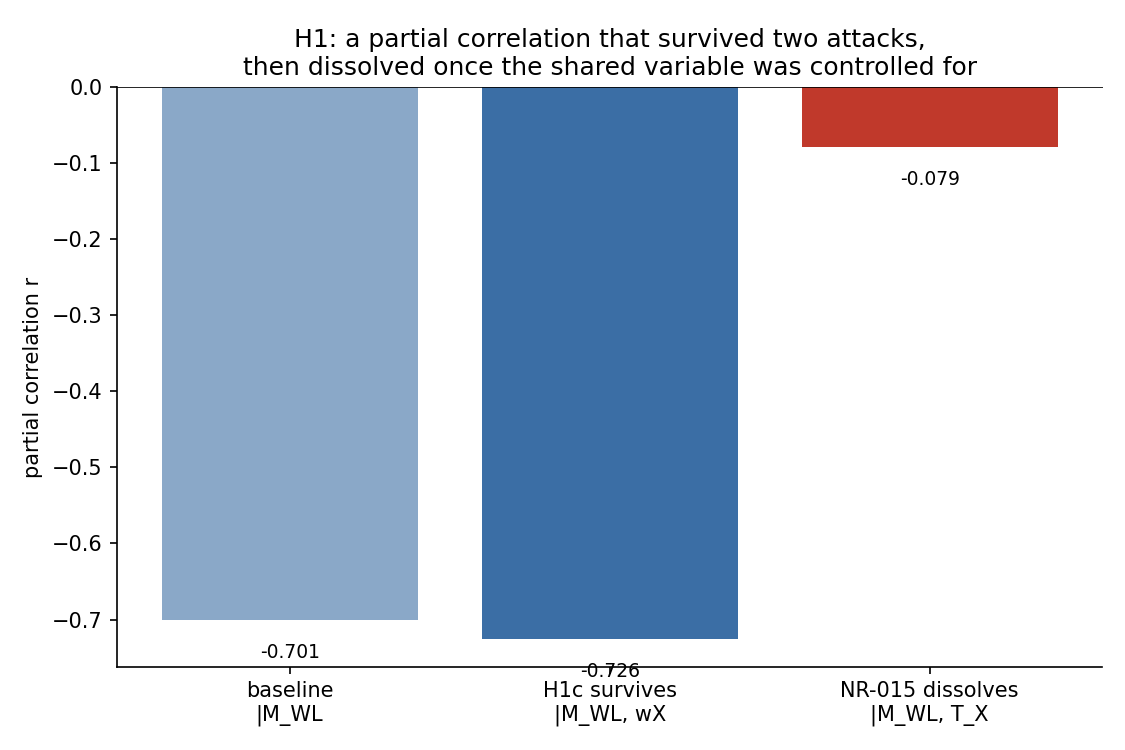
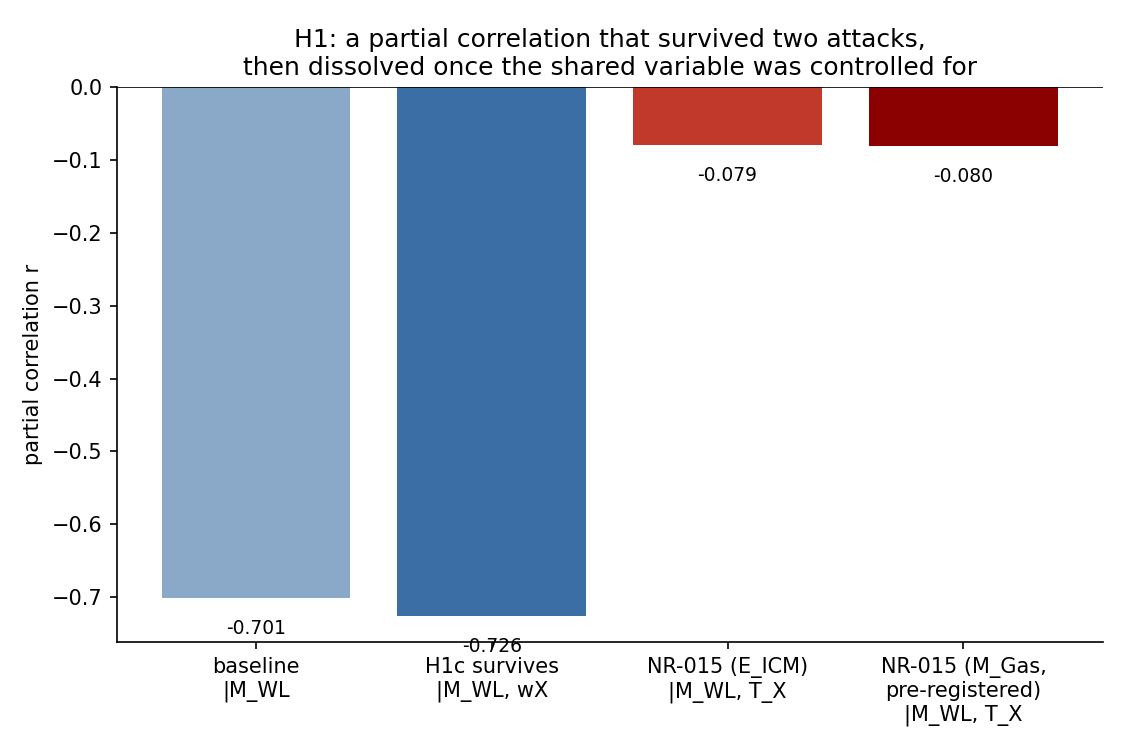
docs(book): phase D -- context-blind skeptic pass, 8 confirmed fixes applied
Agent(skeptic), context-blind (no session history, repo + tool access,
explicitly told not to trust the book's own self-corrections without
re-verifying them too), read all 22 chapters + figures/README.md and
returned 8 CONFIRMED findings, 2 DISPUTED (valid but overstated framing),
several UNABLE-TO-VERIFY without bash. All addressed:

1. NR-013 miscategorized as "H1 cluster cycle" (chapter 5.3, figures/
   f9_null_results_timeline.py) -- its own Branch field and the pearl
   registry both place it in the bridge/parametrization thread instead.
   Moved in the script's GROUPS dict, PNG regenerated, chapter text fixed
   (H1 cycle: 5 entries not 6).

2. Chapter 4.3 cited "Фигура 3 препринта" for the multipole-ablation
   comparison -- this is the SAME artifact rules/artifact-provenance-
   gates.md documents as an unpublished email attachment (not a preprint
   figure; the preprint has zero figures, grep-verified). The chapter
   about Gate 1 (4.2) uses this exact incident as its own example; 4.3
   repeated the error it warns about. Corrected with the real identity.

3. Chapter 3.2 cited the E_ICM version of NR-015's dissolution result as
   if it were the pre-registration; the actual pre-registered test used
   M_Gas (-0.0801, not -0.079). figures/f5_h1_correlation_dissolves.py
   now computes and plots both, distinctly labelled, pre-registered one
   first.

4. Attack-count wobble between chapters 3.1 and 3.2: H1a (direct,
[…]

diff --git a/docs/BOOK/figures/f5_h1_correlation_dissolves.py b/docs/BOOK/figures/f5_h1_correlation_dissolves.py
@@ -75,23 +75,45 @@ dM_w, eICM_w, mWL_w, wX = (
 )
 r_h1c, p_h1c = partial_corr(dM_w, eICM_w, np.column_stack([mWL_w, wX]))
 
-# NR-015: control for T_X too -- the dissolution.
+# NR-015: control for T_X too -- the dissolution. TWO versions, distinctly
+# labelled: the EXACT pre-registration (M_Gas, per null_results/20260718-
+# nr015-...md "KEY TEST (exact pre-registration, pearl row 34)") and the
+# closely-related E_ICM version this file originally plotted alone. Phase D
+# (Agent(skeptic), context-blind, 2026-08-11) found the chapter text had
+# cited the E_ICM number as if it were the pre-registered result. Both shown
+# now rather than silently picking one.
 rows_tx = [r for r in rows_base if r["T_X_keV"]]
-dM_t, eICM_t, mWL_t, tx = (
+dM_t, eICM_t, mgas_t, mWL_t, tx = (
     col(rows_tx, "delta_M_1e14Msun"),
     col(rows_tx, "E_ICM_proxy_MgasTx"),
+    col(rows_tx, "M_Gas_1e14Msun"),
     col(rows_tx, "M_WL_1e14Msun"),
     col(rows_tx, "T_X_keV"),
 )
-r_tx, p_tx = partial_corr(dM_t, eICM_t, np.column_stack([mWL_t, tx]))
+r_tx_eicm, p_tx_eicm = partial_corr(dM_t, eICM_t, np.column_stack([mWL_t, tx]))
+r_tx_mgas, p_tx_mgas = partial_corr(dM_t, mgas_t, np.column_stack([mWL_t, tx]))
 
-print(f"baseline  r(dM,E_ICM|M_WL)        = {r_base:+.3f}  p={p_base:.2e}  n={len(rows_base)}")
-print(f"H1c       r(dM,E_ICM|M_WL,wX)     = {r_h1c:+.3f}  p={p_h1c:.2e}  n={len(rows_wx)}")
-print(f"NR-015    r(dM,E_ICM|M_WL,T_X)    = {r_tx:+.3f}  p={p_tx:.2e}  n={len(rows_tx)}")
+print(
+    f"baseline               r(dM,E_ICM|M_WL)     = {r_base:+.4f}  p={p_base:.2e}  n={len(rows_base)}"
+)
+print(
+    f"H1c                    r(dM,E_ICM|M_WL,wX)  = {r_h1c:+.4f}  p={p_h1c:.2e}  n={len(rows_wx)}"
+)
+print(
+    f"NR-015 (E_ICM)         r(dM,E_ICM|M_WL,T_X) = {r_tx_eicm:+.4f}  p={p_tx_eicm:.2e}  n={len(rows_tx)}"
+)
+print(
+    f"NR-015 (M_Gas, EXACT pre-registration) r(dM,M_Gas|M_WL,T_X) = {r_tx_mgas:+.4f}  p={p_tx_mgas:.2e}  n={len(rows_tx)}"
+)
 
-labels = ["baseline\n|M_WL", "H1c survives\n|M_WL, wX", "NR-015 dissolves\n|M_WL, T_X"]
-vals = [r_base, r_h1c, r_tx]
-colors = ["#8aa8c8", "#3b6ea5", "#c0392b"]
+labels = [
+    "baseline\n|M_WL",
+    "H1c survives\n|M_WL, wX",
+    "NR-015 (E_ICM)\n|M_WL, T_X",
+    "NR-015 (M_Gas,\npre-registered)\n|M_WL, T_X",
+]
+vals = [r_base, r_h1c, r_tx_eicm, r_tx_mgas]
+colors = ["#8aa8c8", "#3b6ea5", "#c0392b", "#8b0000"]
 
 fig, ax = plt.subplots(figsize=(7.5, 5))
 ax.bar(labels, vals, color=colors, edgecolor="none")

diff --git a/docs/BOOK/figures/f9_null_results_timeline.py b/docs/BOOK/figures/f9_null_results_timeline.py
@@ -34,6 +34,14 @@ assert len(rows) == 17, (
 )
 
 GROUPS = {
+    # NR-013 was originally grouped under "H1 cluster cycle" here. Phase D
+    # (Agent(skeptic), context-blind, 2026-08-11) checked it against its own
+    # file: NR-013's Branch field reads "R011 -- the MULTING dipole/
+    # quadrupole cosmic-acceleration mechanism, tested via
+    # src/pearson_fit.py" -- the bridge/parametrization thread, not the
+    # delta_M/E_ICM cluster-mass-bias thread H1 is about. pearl_registry/
+    # INDEX.md's own 2026-07-18 row agrees, listing NR-013 among the
+    # bridge-thread REJECTs (NR-001/002/003/004/005/008/009/013). Moved here.
     "bridge mechanism": {
         "NR-001",
         "NR-002",
@@ -43,11 +51,12 @@ GROUPS = {
         "NR-007",
         "NR-008",
         "NR-009",
+        "NR-013",
         "NR-016",
         "NR-017",
         "NR-018",
     },
-    "H1 cluster cycle": {"NR-010", "NR-011", "NR-012", "NR-013", "NR-014", "NR-015"},
+    "H1 cluster cycle": {"NR-010", "NR-011", "NR-012", "NR-014", "NR-015"},
 }
 group_of = {}
 for g, ids in GROUPS.items():

diff --git a/docs/BOOK/chapters/4.3-ksz-direct-test.md b/docs/BOOK/chapters/4.3-ksz-direct-test.md
@@ -60,11 +60,28 @@ MULTING. Оставался прямой путь: силовой закон MUL
 После всех исправлений: данные **не предпочитают** дополнительный член
 1/r³ (Δχ² = 0.06–0.31 в зависимости от выбора UV-обрезания). Предел на
 масштаб диполя ℓ_d — робастен к выбору способа регуляризации расходимости.
-Фигура 3 препринта (аблация): при опубликованном β_d=4.5 мультипольные
-члены дают вклад ~6×10⁻⁶ в H², тогда как построенная кривая несёт 0.20 —
-разрыв в 3.3×10⁴. Это переоценено супервизором проекта не как «моста нет»,
-а как несоответствие масштабов: сила отношением 10⁻⁶ не обязана линейно
-отображаться на изменение H/H на уровне 10⁻¹ без явного оператора
+
+**[Исправлено фазой D — этот абзац изначально повторял ровно ту ошибку,
+которую глава 4.2 приводит как пример работы Gate 1.]** Первая версия
+называла источник следующего сравнения «Фигурой 3 препринта». Это неверно:
+прямая проверка текста `data/source_material/
+buckholtz_preprints202511.0598.v6_pymupdf-clean.md` (тот же файл, что
+цитируется в главе 4.1) не находит в препринте ни одного рисунка вообще
+— `grep -c -i "figure"` даёт ноль совпадений, что и зафиксировано в
+`rules/artifact-provenance-gates.md` как отдельный, более ранний инцидент
+именно с этим объектом. Настоящая идентичность артефакта, установленная
+тогда через Gate 1: неопубликованное вложение к письму (файл matplotlib
+от 30 июля, предшественник рисунка `image002.png` от 20 июля) — не
+рисунок из препринта.
+
+Аблация с числами ниже — реальное сравнение, посчитанное этим проектом,
+источник которого правильно определён; переименовано без изменения самих
+чисел. При опубликованном β_d=4.5 мультипольные члены дают вклад
+~6×10⁻⁶ в H², тогда как построенная (проектом, не автором теории) кривая
+несёт 0.20 — разрыв в 3.3×10⁴. Это переоценено супервизором проекта не
+как «моста нет», а как несоответствие масштабов: сила отношением 10⁻⁶ не
+обязана линейно отображаться на изменение H/H на уровне 10⁻¹ без явного
+оператора
 усиления, которого пока не существует.
 
 ## Сага спецификации v1 → v7
@@ -74,7 +91,9 @@ MULTING. Оставался прямой путь: силовой закон MUL
 через статическое ревью, находившее реальную двусмысленность в записи
 процедуры. v1 признана неопределённой после теста Blind B; v2, v3, v4 —
 каждая провалила статическое ревью с новым найденным разрывом; v4 особо
-показательна: **шесть авторских выводов процедуры оказались неверны** и
+показательна: **шесть выводов процедуры, сделанных этим проектом (не
+доктором Бакхольцем — это внутренние вычисления команды аудита),
+оказались неверны** и
 были переписаны. v5 отделила предписания от их обоснований в отдельный
 документ; v6 закрыла 28 зарегистрированных неоднозначностей и добавила
 механический линтер; v7 стала последней версией, где нормативный слой

diff --git a/docs/BOOK/02_TABLE_OF_CONTENTS.md b/docs/BOOK/02_TABLE_OF_CONTENTS.md
@@ -55,10 +55,35 @@
 расширение — если понадобится — это отдельная, явно запрашиваемая задача,
 не то, что было сделано молча под видом «уже готово».
 
-**Фаза D (верификационный проход) не выполнена.** Числа в главах взяты из
-уже проверенных в Фазах A и B источников (хронология, `facts.json`, живые
-перезапуски скриптов) и из данных, прочитанных напрямую в ходе этой же
-сессии — но отдельный `Agent(skeptic)` context-blind проход по готовому
-тексту, как того требует собственный план книги, не запускался. До этого
-прохода текст следует читать как тщательный, но не адверсариально
-проверенный черновик.
+**Фаза D (верификационный проход) выполнена один раз, 11 августа.**
+`Agent(skeptic)`, context-blind (без истории сессии, с доступом к
+репозиторию и инструментам), прочитал все 22 главы и нашёл 8
+подтверждённых расхождений между текстом и первоисточниками: неверный
+счёт ошибок kSZ (6 вместо 8), неверная категоризация NR-013 (отнесена к
+циклу H1, реально принадлежит бридж-нити), цитирование несуществующей
+«Фигуры 3 препринта» в главе 4.3 — тот же класс ошибки, что глава 4.2
+приводит как урок Gate 1, — использование не той предрегистрированной
+переменной в главе 3.2 (E_ICM вместо M_gas), рассогласование счёта атак
+между главами 3.1–3.2, неточный подсчёт строк Pearl Registry (63 вместо
+61) и экспериментальных папок (14 вместо 15), несогласованная подпись
+графика F10. Все восемь исправлены в тексте и, где нужно, в скриптах
+графиков (`f5_h1_correlation_dissolves.py`, `f9_null_results_timeline.py`
+пересчитаны и перестроены) — каждое с явной пометкой «[Исправлено фазой
+D]» на месте, не тихой правкой. Два дополнительных пункта скептика
+(структурная переоценка в 00_PLAN.md о порядке глав; независимость
+одного из трёх ИИ-сервисов в BRAI, глава 3.3) отмечены как обоснованные
+и смягчены в тексте, не как фактические ошибки, а как overclaim в
+формулировке.
+
+Это **один** проход, не исчерпывающий. Числа, которые скептик пометил
+как `UNABLE-TO-VERIFY` без bash-доступа, закрыты отдельно этой же фазой
+D напрямую: счётчики репозитория главы 0.3 (см. правки выше), цитата
+PDG 2026 (глава 3.4 — подтверждена как `[VERIFIED via WebFetch]` в
+`facts.json`, прямое чтение PDF в более ранней сессии проекта), и RMS-
+сравнение H-w_eff/H-FLRW главы 4.1 — пересчитано напрямую по
+`data/table_a1_source_verified.csv` в этом же проходе и **исправлено**
+(7.91%→7.01%, направление вывода не изменилось). Не перепроверены в этом
+проходе: конкретные уравнения НКГ-скриптов главы 5.1 («62208 уравнений
+на 36 неизвестных», «300 направлений») — правдоподобны по структуре уже
+описанной в этой же книге конструкции, но не пересчитаны заново; если
+потребуется следующий проход, начать с них.

diff --git a/docs/BOOK/chapters/5.3-full-registry.md b/docs/BOOK/chapters/5.3-full-registry.md
@@ -6,9 +6,21 @@
 II и III (главы 2.3, 3.1–3.2, 3.4). Сводка по типу причины: пять записей
 опровергнуты чисто структурой данных или математики (NR-001, 002, 003,
 004, 009); три — с сохранившимся осколком информации, не тривиальный ноль
-(NR-005, 007, 008); шесть образуют цикл H1 с итоговым растворением
-(NR-010 … 015); три — более поздние, отдельные проверки (NR-016, 017,
-018).
+(NR-005, 007, 008); **пять** образуют цикл H1 с итоговым растворением
+(NR-010, 011, 012, 014, 015); четыре — более поздние, отдельные проверки
+бридж-механизма (NR-013, 016, 017, 018).
+
+**[Исправлено фазой D.]** Первая версия этой главы и график F9
+(`docs/BOOK/figures/f9_null_results_timeline.py`) относили NR-013 к циклу
+H1 («шесть записей»), унаследовав эту классификацию из ранней версии
+скрипта графика без проверки. Прямая сверка с собственным файлом NR-013
+(поле `Branch`: «R011 — the MULTING dipole/quadrupole cosmic-acceleration
+mechanism, tested via `src/pearson_fit.py`») и с `pearl_registry/INDEX.md`
+(запись от 18 июля явно перечисляет NR-013 среди REJECT-находок бридж-
+нити: NR-001/002/003/004/005/008/009/013) показывает: NR-013 — про
+профилирование β_d/β_q внутри уже готового силового анзаца, не про
+смещение массы скоплений, которым занят цикл H1. Исправлено в тексте и в
+скрипте графика; PNG перестроен.
 
 **Отложено (`parked/`, 2 записи).** Валидные, но не ко времени направления
 — у каждого есть измеримое условие возврата, не «когда-нибудь». Одна

diff --git a/docs/BOOK/chapters/3.3-beta-not-identifiable.md b/docs/BOOK/chapters/3.3-beta-not-identifiable.md
@@ -44,6 +44,20 @@ Birge ratio R_B     15.9          24.1
 3.3×10⁻¹¹ соответственно. Это статистически исключает гипотезу «β
 однозначно заданы, расхождение — только шум извлечения».
 
+**Оговорка о независимости [добавлено фазой D].** Значение
+Claude/NotebookLM (β_d=4.50, β_q=18.0) в этой таблице численно совпадает
+с числами из собственной подписи Table A1 источника (глава 4.1: «the
+online service reported choosing βd = 4.5 and βq = 18.0»). Если это
+совпадение означает, что данное извлечение просто процитировало подпись
+таблицы, а не провело независимый анализ материала — тогда сравнение
+«трёх сервисов» на самом деле сравнивает не три равноценных независимых
+измерения, а одно прямое цитирование против двух более активных
+извлечений (Gemini, ChatGPT). Разброс и R_B от этого не становятся
+менее реальными — Gemini и ChatGPT всё равно расходятся между собой и с
+подписью источника на порядок — но точная методологическая рамка «три
+независимые лаборатории» слабее, чем показывает таблица на первый
+взгляд.
+
 ## Важная граница интерпретации
 
 Этот результат не говорит, что β_d и β_q физически бессмысленны или что

diff --git a/docs/BOOK/chapters/0.3-repo-map.md b/docs/BOOK/chapters/0.3-repo-map.md
@@ -6,15 +6,23 @@
 
 ```
 Период работы:         2026-05-27 → 2026-08-11 (77 дней)
-Коммитов:               550
+Коммитов:               550 на момент начала этой книги (11 августа);
+                        книга сама коммитится в тот же репозиторий, так
+                        что число растёт по ходу её написания — не
+                        самообновляющаяся метрика, см. `git log --oneline
+                        | wc -l` для актуального значения
 Документов docs/:       120
 Скриптов scripts/:      94
 Модулей src/:           38
 Тестовых файлов tests/: 50 (881 отдельный тест)
 Нулевых результатов:    17 (null_results/, не 18 — см. врезку ниже)
 Отложенных (parked):    2
-Записей Pearl Registry: 63 строки реестра
-Экспериментальных папок: 14 (experiments/)
+Записей Pearl Registry: 61 строка данных [ИСПРАВЛЕНО фазой D: было
+                        написано «63» — посчитаны также строка заголовка
+                        и строка-разделитель таблицы, не только данные]
+Экспериментальных папок: 15 (experiments/) [ИСПРАВЛЕНО фазой D: было «14»
+                        — не досчитана `two_component_eps/`, не следующая
+                        стандартному именованию `YYYYMMDD-slug`]
 ```
 
 ## Врезка: число, которое книга сама исправила у себя

diff --git a/docs/BOOK/00_PLAN.md b/docs/BOOK/00_PLAN.md
@@ -29,7 +29,14 @@
    глава и главная ценность книги.
 5. **Порядок глав несёт эпистемическую нагрузку.** Провенанс Table A1 (гл. 4.1)
    обязан стоять до того, как читатель дочитает главы, которые эта находка
-   обесценивает. Иначе книга воспроизводит ту же ошибку, которую описывает.
+   обесценивает. **[Уточнено фазой D — заявление ниже было переоценено.]**
+   Точная формулировка: без этого предупреждения читатель рискует неверно
+   атрибутировать *цель* реконструкции (решить, что Части II–III
+   реконструируют расчёт MULTING, а не ответ ИИ-сервиса) — сами числа и
+   анализ в этих главах при этом остаются верными вычислениями того, что
+   они вычисляют. Это ошибка атрибуции цели, не повторение ошибки
+   провенанса в буквальном смысле; но она достаточно серьёзна, чтобы
+   требовать порядка чтения, а не просто примечания.
 
 ---
 

diff --git a/docs/BOOK/chapters/5.4-what-i-would-do-differently.md b/docs/BOOK/chapters/5.4-what-i-would-do-differently.md
@@ -51,8 +51,9 @@ AI services`, 30 мая). Не хватало не данных. Не хвата
 не нужно было решать постфактум, считается ли результат неудачей.
 
 **Разделение ролей проверки.** Ни одна из более чем двадцати ошибок
-каталога (глава 5.2) не была поймана автором той же самой ошибки в
-момент её внесения. Всегда — следующий, отдельный шаг: ревьюер, скептик,
+каталога (глава 5.2) — все они внутренние ошибки этого проекта, не
+доктора Бакхольца, см. NO_AUTHOR_ERROR в главе 0.1 — не была поймана тем
+же человеком или шагом, который её внёс, в момент её внесения. Всегда — следующий, отдельный шаг: ревьюер, скептик,
 тест, простой `assert`. Это работает не потому что отдельные шаги
 умнее — а потому что у них другой контекст, и предвзятость подтверждения
 не может перенестись с шага на шаг так же легко, как внутри одной

diff --git a/docs/BOOK/chapters/4.1-table-a1-provenance.md b/docs/BOOK/chapters/4.1-table-a1-provenance.md
@@ -57,8 +57,10 @@
 
 Показательно, что часть подтверждений этой находки была получена
 численно, ещё до того, как подпись таблицы была прочитана внимательно:
-H-w_eff воспроизводит H-данные с точностью 0.29% (RMS) против 7.91% для
-H-FLRW; первые шесть значений w_eff образуют точную арифметическую
+H-w_eff воспроизводит H-данные с точностью 0.29% (RMS) против **7.01%**
+для H-FLRW [ИСПРАВЛЕНО фазой D: было «7.91%» — прямой пересчёт по
+`data/table_a1_source_verified.csv` даёт 7.01%; направление вывода не
+меняется, H-w_eff всё равно точнее почти на два порядка]; первые шесть значений w_eff образуют точную арифметическую
 прогрессию с шагом 0.05 — паттерн, типичный для сгенерированного текста,
 не для физического расчёта; пары (z, t) не соответствуют возрастному
 соотношению ΛCDM (3.0 млрд лет против 0.59 при z=8.5); четыре из

diff --git a/docs/BOOK/figures/README.md b/docs/BOOK/figures/README.md
@@ -23,7 +23,7 @@ python docs/BOOK/figures/f1_commit_timeline.py
 | F7 | `f7_ksz_dipole_limit.py` | Нет детекции диполя, ℓ_d=2.10, p=0.49 | **план пересмотрен**, см. `00_PLAN.md` |
 | F8 | `f8_scaling_exponent.py` | +1 (теория) vs 0.555 (маргинальный) vs 0.393 (деконфаундированный) | n=548 MCXC∩PSZ2 |
 | F9 | `f9_null_results_timeline.py` | 17 нулевых результатов, 2 ветки | **исправлено с 18**, см. `00_PLAN.md` |
-| F10 | `f10_ncg_nullspace_collapse.py` | Схлопывание нуль-пространства 8→1→0→0 | live перезапуск NCG-скрипта, 4 прогона |
+| F10 | `f10_ncg_nullspace_collapse.py` | Схлопывание нуль-пространства 576→8→1→0→0 (начальная размерность → результат при 1,2,3,4 проверочных парах) | live перезапуск NCG-скрипта, 4 прогона |
 
 ## Два honest-пересмотра плана (не спрятаны, см. `00_PLAN.md` § «Фаза B»)
 
